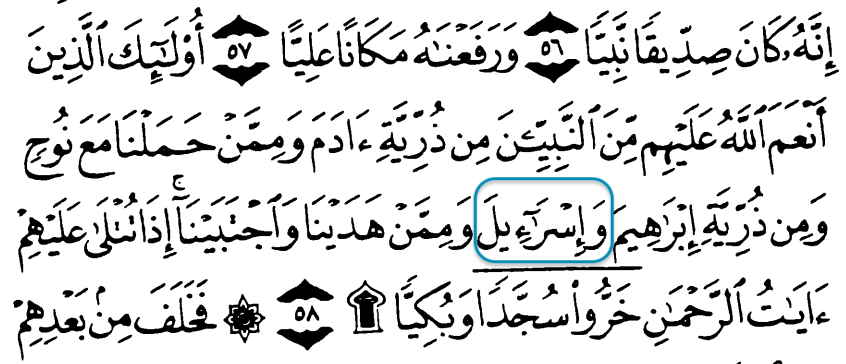
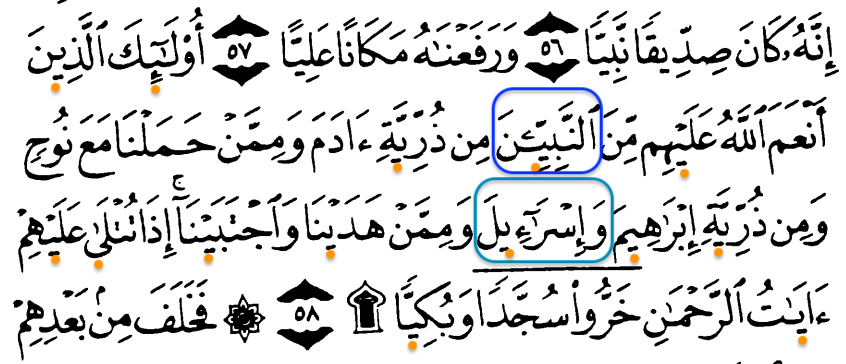
Fix ELNEBY-YIN, VELNEBY-YIN, BILNEBY-YIN words with the help of 19:58

diff --git a/docs/STEPS.md b/docs/STEPS.md
@@ -6209,3 +6209,30 @@
 
 ---
 ---
+
+212. ELNEBY-YIN, VELNEBY-YIN, BILNEBY-YIN
+```
+النبيين -> النبين
+والنبيين -> والنبين
+بالنبيين -> بالنبين
+```
+* 19:58, 4:163, 39:69
+
+<>
+* 2:61
+* 2:177
+* 2:213
+* 3:21
+* 3:80
+* 3:81
+* 4:69
+* 4:163
+* 17:55
+* 33:7
+* 33:40
+* 39:69
+---
+![19:58](../pictures/19-58.png)
+
+---
+---
